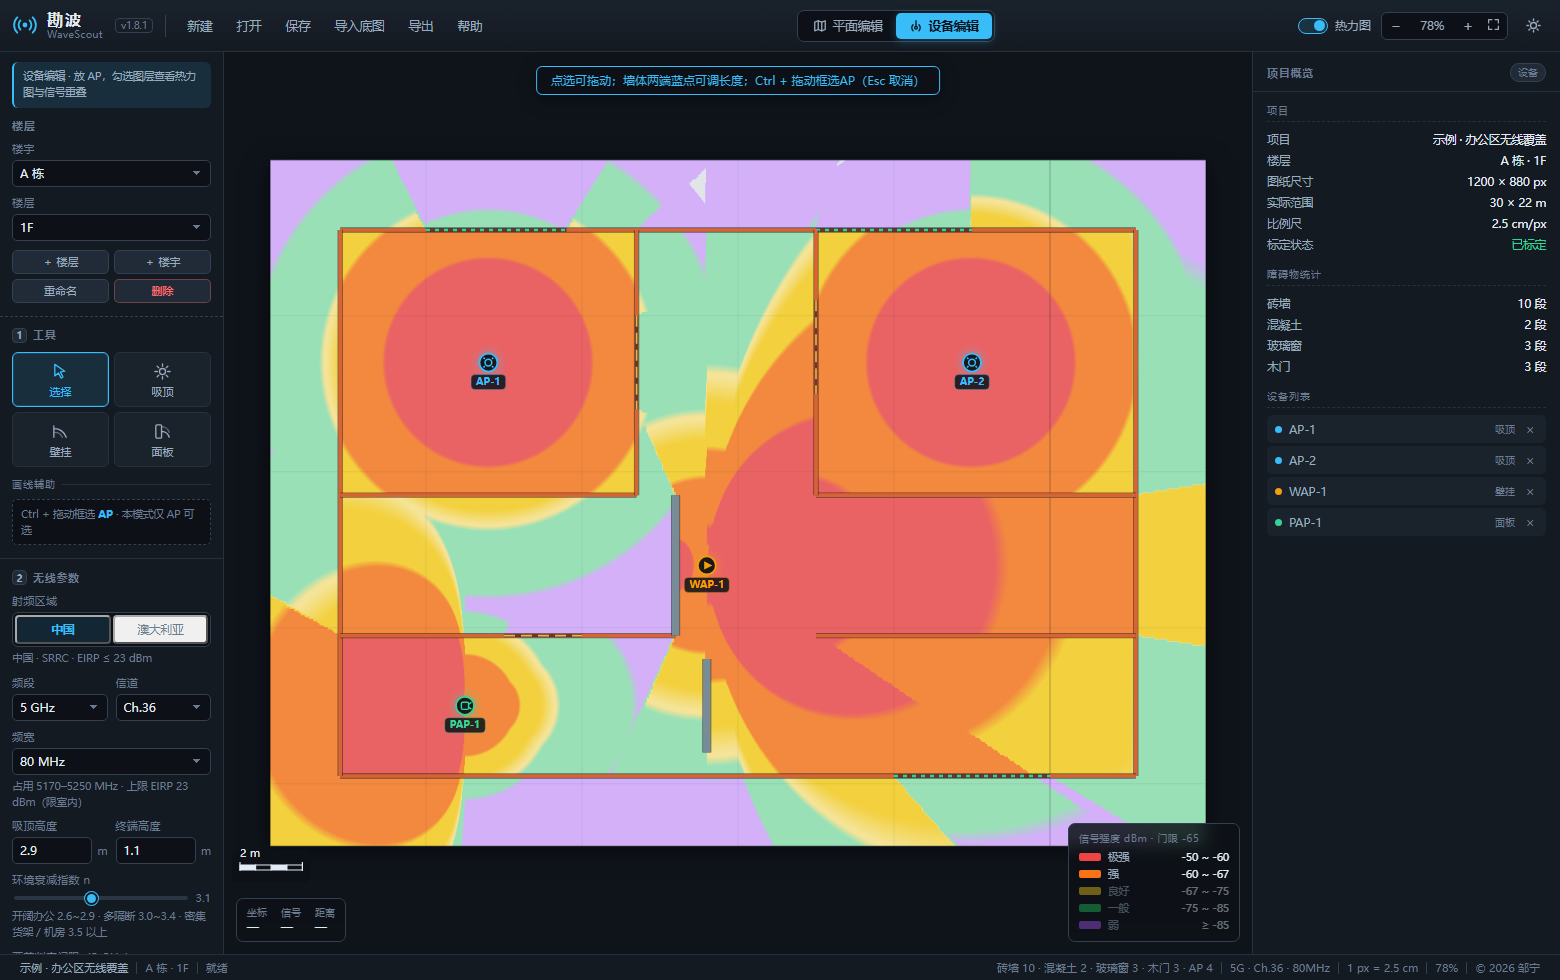
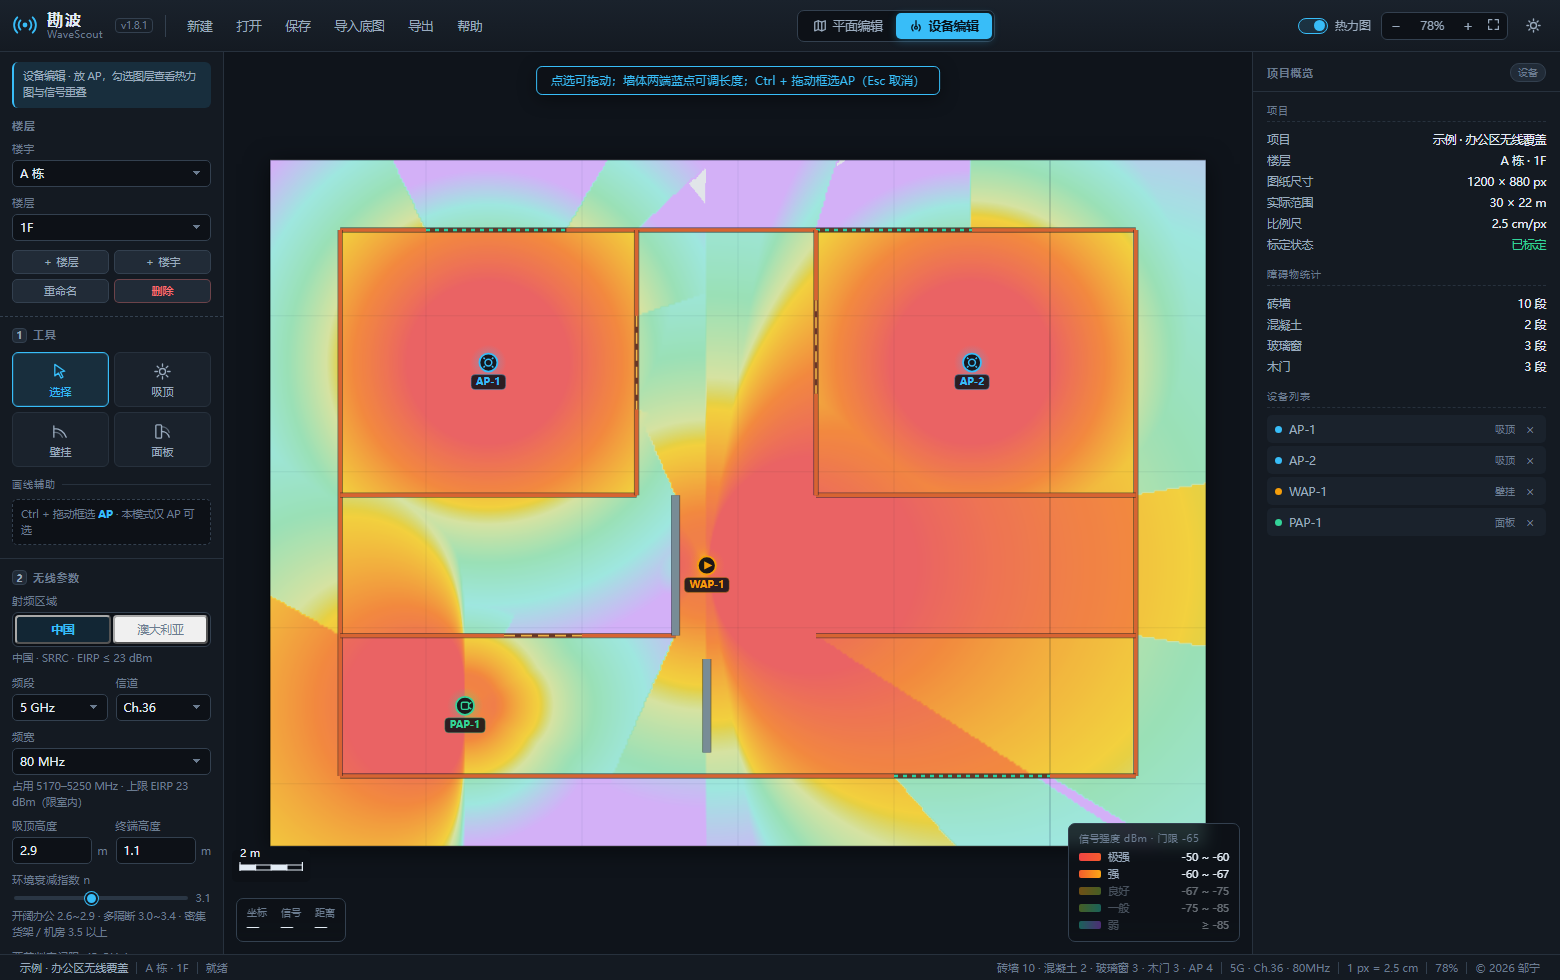
feat: 热力图改为连续色标渐变，消除色块硬边
旧实现每档是纯色，只在档位边界做 0.65 dB 的窄过渡（不到档宽 7%），
肉眼仍是阶梯状色块。

改为色标插值：锚点取各档区间中点（-45/-55/-63.5/-71/-80），
锚点之间线性插值，交界处自然等于两色中点，跨档连续。

绿→紫之间额外插一个青绿锚点：RGB 直接插值会经过灰蓝 (101,141,170)，
与无信号灰 (122,134,152) 几乎同色，会被误读成一整片盲区。

图例色块同步改为档内渐变，相邻两行交界取同一值，颜色接得上。
统计口径不受影响（counts 仍按 rssiBand 分档）。

diff --git a/build/exp-door.js b/build/exp-door.js
@@ -1,0 +1,90 @@
+/* 门口效应：整墙 vs 开门 vs 门与墙重叠，横向扫描看"扩散"宽度 */
+'use strict';
+const fs = require('fs');
+const vm = require('vm');
+const path = require('path');
+
+const ROOT = path.join(__dirname, '..');
+const sandbox = {
+  window: {}, Math, JSON, Float32Array, Uint8Array, Int32Array,
+  Object, Array, String, Number, isFinite, parseFloat, parseInt, console, Date,
+  document: {
+    createElement: function () {
+      return {
+        width: 0, height: 0,
+        getContext: function () {
+          return {
+            createImageData: function (w, h) { return { data: new Uint8Array(w * h * 4) }; },
+            putImageData: function () {}
+          };
+        }
+      };
+    }
+  }
+};
+vm.createContext(sandbox);
+vm.runInContext(fs.readFileSync(path.join(ROOT, 'js/core.js'), 'utf8'), sandbox);
+const WS = sandbox.window.WS;
+
+function base() {
+  const p = WS.newProject();
+  p.imgW = 1200; p.imgH = 800; p.mpp = 0.02; p.calibrated = true;
+  p.settings.band = '5'; p.settings.channel = 36; p.settings.bw = 80;
+  p.settings.freq = WS.chMhz('5', 36);
+  p.settings.pathLossN = WS.defaultN(5180);
+  p.obstacles = [];
+  p.aps = [WS.makeAp('ceiling', 200, 400, 1)];
+  return p;
+}
+
+function solidWall() {
+  const p = base();
+  p.obstacles.push(WS.makeObstacle('brick', 600, 100, 600, 700));
+  return p;
+}
+function doorOpen() {
+  const p = base();
+  p.obstacles.push(WS.makeObstacle('brick', 600, 100, 600, 350));
+  p.obstacles.push(WS.makeObstacle('wood', 600, 350, 600, 450));
+  p.obstacles.push(WS.makeObstacle('brick', 600, 450, 600, 700));
+  return p;
+}
+function doorOverlap() {
+  const p = doorOpen();
+  p.obstacles.push(WS.makeObstacle('brick', 600, 350, 600, 450));
+  return p;
+}
+
+const rssi = (p, x, y) => { const r = WS.rssiAt(p, x, y); return typeof r === 'number' ? r : r.rssi; };
+
+console.log('材质衰减（5180 MHz）：砖墙 ' + WS.obAtten(WS.makeObstacle('brick', 0, 0, 1, 0), 5180) +
+  ' dB，木门 ' + WS.obAtten(WS.makeObstacle('wood', 0, 0, 1, 0), 5180) + ' dB');
+
+const S = [['整墙', solidWall()], ['开门', doorOpen()], ['门+墙重叠', doorOverlap()]];
+
+console.log('\n== 正对门口的中轴线上 ==');
+console.log('  位置            整墙    开门   门+重叠');
+[[500, 400], [650, 400], [800, 400], [1000, 400], [1150, 400]].forEach(function (pt) {
+  const row = S.map(function (s) { return rssi(s[1], pt[0], pt[1]).toFixed(1).padStart(6); });
+  console.log('  (' + pt[0] + ',' + pt[1] + ')' + ' '.repeat(Math.max(1, 10 - String(pt[0]).length)) + row.join('  '));
+});
+
+console.log('\n== 门后 2m 处横向扫描（x=900，y 从 250 到 550） ==');
+console.log('  y    ' + S.map(s => s[0].padStart(8)).join('  '));
+for (let y = 250; y <= 550; y += 25) {
+  console.log('  ' + String(y).padEnd(5) + S.map(s => rssi(s[1], 900, y).toFixed(1).padStart(8)).join('  '));
+}
+
+/* 统计 x=900 处"还能画出来"的横向宽度：阈值 -85（绘制下限） */
+console.log('\n== 门后可见宽度（RSSI >= -85 的横向跨度，x=900） ==');
+S.forEach(function (s) {
+  let first = null, last = null;
+  for (let y = 100; y <= 700; y++) {
+    if (rssi(s[1], 900, y) >= -85) { if (first === null) first = y; last = y; }
+  }
+  const w = (first === null) ? 0 : (last - first);
+  console.log('  ' + s[0].padEnd(10) + (first === null ? '完全不可见' : (first + ' ~ ' + last + '，宽 ' + w + ' px = ' + (w * 0.02).toFixed(2) + ' m')));
+});
+
+/* 门洞本身宽度 */
+console.log('\n门洞宽度 350~450 = 100 px = ' + (100 * 0.02).toFixed(2) + ' m');

diff --git a/js/core.js b/js/core.js
@@ -1122,26 +1122,53 @@ window.WS = window.WS || {};
   var LUT_STEP = 0.05;
   var LUT_N = Math.round((LUT_MAX - LUT_MIN) / LUT_STEP) + 1;
   var LUT_INV = 1 / LUT_STEP;
-  var BLEND_DB = 0.65;
   var _lut = null;
 
-  function blendColor(v, bi) {
-    var b = WS.BANDS[bi];
-    var rgb = b.rgb;
-    var next = (bi + 1 < WS.BANDS.length) ? WS.BANDS[bi + 1] : null;
-    if (!next) return rgb;
+  /* ------------------------------------------------------------
+     连续色标：锚点处为纯色，锚点之间线性插值。
+     相邻两档的交界处正好落在两锚点中间，颜色自然等于两色中点，
+     所以跨档不再出现硬边（旧实现只在边界上做 0.65 dB 窄过渡，
+     占档宽不到 7%，肉眼仍是一条硬线）。
 
-    var dv = v - b.min;          // 距本档下界（与更弱一档的分界）的距离
-    if (dv >= 0 && dv < BLEND_DB) {
-      var t = dv / BLEND_DB;     // 0 = 贴边界（取更弱档色），1 = 完全本档色
-      var n = next.rgb;
-      return [
-        n[0] + (rgb[0] - n[0]) * t,
-        n[1] + (rgb[1] - n[1]) * t,
-        n[2] + (rgb[2] - n[2]) * t
-      ];
+     锚点取各档区间中点：极强 -45、强 -55、良好 -63.5、一般 -71、弱 -80。
+     绿 → 紫之间额外插一个青绿锚点：RGB 直接插值会经过灰蓝
+     (101,141,170)，与「无信号」的灰 (122,134,152) 几乎同色，
+     看上去像一整片盲区，容易误读。
+     ------------------------------------------------------------ */
+  WS.HEAT_STOPS = [
+    { v: -45,   rgb: [239, 68, 68]  },   // 极强 · 红
+    { v: -55,   rgb: [249, 115, 22] },   // 强   · 橙
+    { v: -63.5, rgb: [250, 204, 21] },   // 良好 · 黄
+    { v: -71,   rgb: [34, 197, 94]  },   // 一般 · 绿
+    { v: -75.5, rgb: [45, 212, 191] },   // 过渡 · 青绿（仅参与插值，不对应档位）
+    { v: -80,   rgb: [168, 85, 247] }    // 弱   · 紫
+  ];
+
+  /* 任意 RSSI → 连续颜色；超出两端时取端色 */
+  WS.heatColorAt = function (v) {
+    var st = WS.HEAT_STOPS;
+    var last = st.length - 1;
+    if (!isFinite(v)) return null;
+    if (v >= st[0].v) return st[0].rgb;
+    if (v <= st[last].v) return st[last].rgb;
+    for (var i = 0; i < last; i++) {
+      var a = st[i], b = st[i + 1];
+      if (v <= a.v && v >= b.v) {
+        var t = (v - b.v) / (a.v - b.v);        // 0 = 弱端，1 = 强端
+        return [
+          b.rgb[0] + (a.rgb[0] - b.rgb[0]) * t,
+          b.rgb[1] + (a.rgb[1] - b.rgb[1]) * t,
+          b.rgb[2] + (a.rgb[2] - b.rgb[2]) * t
+        ];
+      }
     }
-    return rgb;
+    return st[0].rgb;
+  };
+
+  /* 兼容旧调用点：仍然接受 (v, bandIndex)，颜色只取决于 v */
+  function blendColor(v, bi) {
+    var c = WS.heatColorAt(v);
+    return c || WS.BANDS[bi].rgb;
   }
 
   function ensureLut() {

diff --git a/使用说明.html b/使用说明.html
@@ -221,6 +221,9 @@ blockquote p{margin:0;}
 <h3>7.1 颜色</h3>
 <p>信号由强到弱，颜色依次递减：</p>
 <table><thead><tr><th>颜色</th><th>强度档</th><th>RSSI 范围</th><th>业务含义</th></tr></thead><tbody><tr><td>🔴 红</td><td>极强</td><td>≥ -50 dBm</td><td>满速率，适合高密场景</td></tr><tr><td>🟠 橙</td><td>强</td><td>-50 ~ -60</td><td>高速率，视频 / 大文件无压力</td></tr><tr><td>🟡 黄</td><td>良好</td><td>-60 ~ -67</td><td>常规办公、网页、语音</td></tr><tr><td>🟢 绿</td><td>一般</td><td>-67 ~ -75</td><td>可用但速率下降，语音可能不稳</td></tr><tr><td>🟣 紫</td><td>弱</td><td>-75 ~ -85</td><td>勉强关联，易掉线</td></tr><tr><td>⬜ 淡灰</td><td>盲区</td><td>&lt; -85</td><td>连最弱一档都不到</td></tr></tbody></table>
+<p>上表给的是各档的<b>代表色</b>（取档位区间的中点）。实际画面上颜色是<b>连续渐变</b>的：</p>
+<p>相邻两档之间平滑过渡，不会出现色块硬边。想判断具体数值，看鼠标左下角的实时读数，</p>
+<p>比肉眼比色准。</p>
 <p><b>门限与淡显</b>：门限默认 <b>-65 dBm</b>（2.4G / 5G 分别独立设定），可在左侧「覆盖判定门限」调整。</p>
 <p>低于门限的档位<b>仍然会画出来，但颜色变淡</b>，这样你能同时看到"哪里有信号"和"哪里不达标"，</p>
 <p>而不是被一刀切掉看不见。</p>

diff --git a/js/ui.js b/js/ui.js
@@ -2310,6 +2310,12 @@
     }
   }
 
+  /* 颜色数组 → CSS 颜色串 */
+  function rgbCss(c) {
+    if (!c) return '#7a8698';
+    return 'rgb(' + Math.round(c[0]) + ',' + Math.round(c[1]) + ',' + Math.round(c[2]) + ')';
+  }
+
   function buildLegend() {
     var th = curMinRssi();
     var html = '';
@@ -2319,8 +2325,13 @@
       var rangeTxt = (next !== null) ? (b.min + ' ~ ' + next) : ('≥ ' + b.min);
       // 该档中最强的信号仍低于门限 → 整档不达标，淡显
       var dim = (b.min < th);
+      /* 色块用该档「强端 → 弱端」的渐变，与画面上的连续色标一致；
+         相邻两行在交界处取同一个值，颜色自然接上，不再是一排纯色块 */
+      var hi = (i === 0) ? (b.min + 10) : WS.BANDS[i - 1].min;
+      var cHi = rgbCss(WS.heatColorAt(hi));
+      var cLo = rgbCss(WS.heatColorAt(b.min));
       html += '<div class="legend-row"' + (dim ? ' style="opacity:.42"' : '') + '>' +
-        '<i style="background:' + b.hex + '"></i>' +
+        '<i style="background:linear-gradient(90deg,' + cHi + ' 0%,' + cLo + ' 100%)"></i>' +
         '<span>' + b.name + '</span><b>' + rangeTxt + '</b></div>';
     }
     if (S.layers.overlap) {

diff --git a/使用说明.md b/使用说明.md
@@ -346,6 +346,10 @@
 | 🟣 紫 | 弱 | -75 ~ -85 | 勉强关联，易掉线 |
 | ⬜ 淡灰 | 盲区 | < -85 | 连最弱一档都不到 |
 
+上表给的是各档的**代表色**（取档位区间的中点）。实际画面上颜色是**连续渐变**的：
+相邻两档之间平滑过渡，不会出现色块硬边。想判断具体数值，看鼠标左下角的实时读数，
+比肉眼比色准。
+
 **门限与淡显**：门限默认 **-65 dBm**（2.4G / 5G 分别独立设定），可在左侧「覆盖判定门限」调整。
 低于门限的档位**仍然会画出来，但颜色变淡**，这样你能同时看到"哪里有信号"和"哪里不达标"，
 而不是被一刀切掉看不见。
